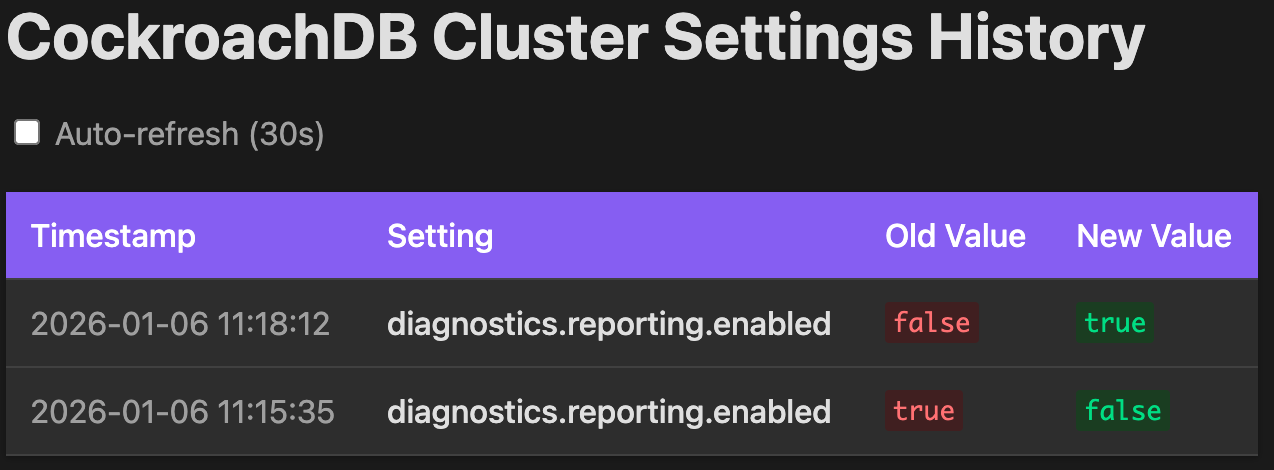
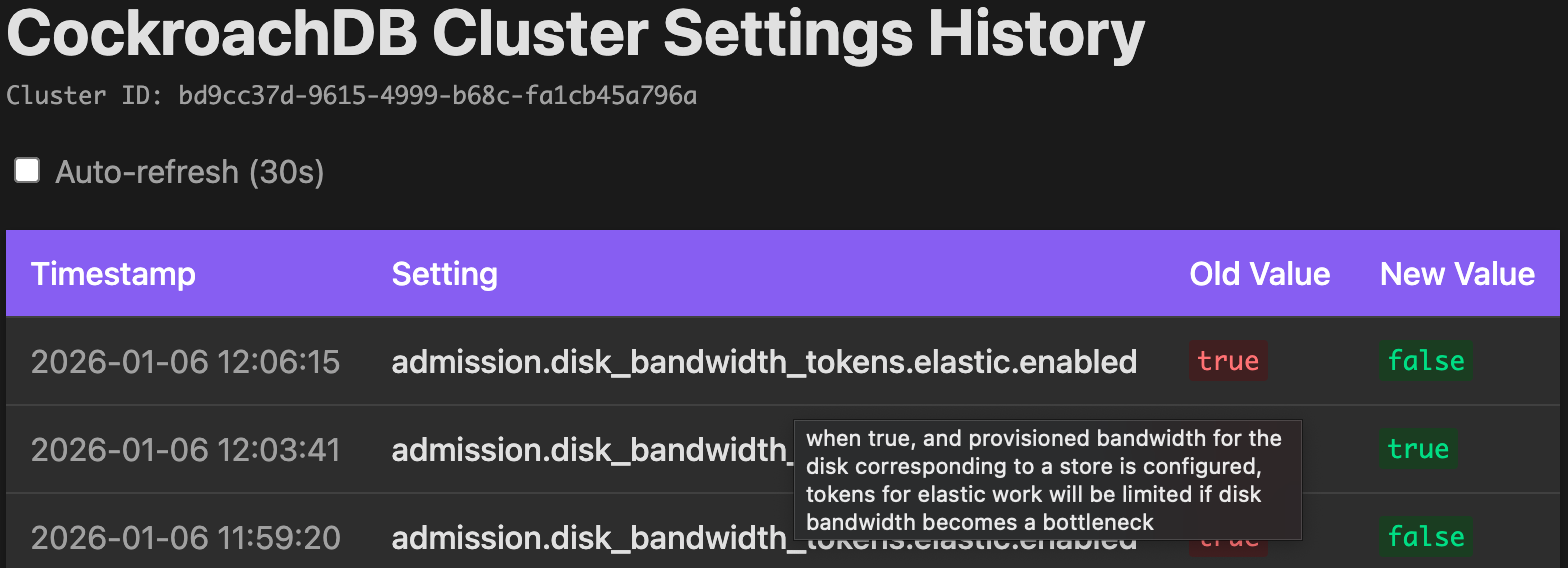
Add Docker support and display cluster ID in web UI
Docker:
- Add Dockerfile with multi-stage build (golang:1.21-alpine -> alpine:3.19)
- Add docker-compose.yml for local development with CockroachDB
- Add .dockerignore to exclude build artifacts
- Add Podman compatibility notes to README

Cluster ID display:
- Add metadata table to store cluster_id
- Collector fetches cluster_id via crdb_internal.cluster_id()
- Web UI displays cluster ID below title in small monospace font

🤖 Generated with [Claude Code](https://claude.com/claude-code)

diff --git a/web/templates/index.html b/web/templates/index.html
@@ -51,7 +51,13 @@
         }
         h1 {
             color: var(--text-primary);
+            margin-bottom: 5px;
+        }
+        .cluster-id {
+            font-size: 12px;
+            color: var(--text-secondary);
             margin-bottom: 20px;
+            font-family: 'Monaco', 'Menlo', monospace;
         }
         .container {
             max-width: 1200px;
@@ -127,6 +133,7 @@
 <body>
     <div class="container">
         <h1>CockroachDB Cluster Settings History</h1>
+        {{if .ClusterID}}<div class="cluster-id">Cluster ID: {{.ClusterID}}</div>{{end}}
 
         <div class="controls">
             <label>

diff --git a/storage/store.go b/storage/store.go
@@ -73,6 +73,12 @@ func initSchema(ctx context.Context, pool *pgxpool.Pool) error {
 	);
 
 	CREATE INDEX IF NOT EXISTS idx_changes_detected ON changes(detected_at DESC);
+
+	CREATE TABLE IF NOT EXISTS metadata (
+		key TEXT PRIMARY KEY,
+		value TEXT NOT NULL,
+		updated_at TIMESTAMPTZ NOT NULL
+	);
 	`
 	_, err := pool.Exec(ctx, schema)
 	if err != nil {
@@ -321,4 +327,37 @@ func (s *Store) CleanupOldChanges(ctx context.Context, retention time.Duration) 
 		return 0, err
 	}
 	return result.RowsAffected(), nil
+}
+
+// SetMetadata stores a key-value pair in the metadata table.
+func (s *Store) SetMetadata(ctx context.Context, key, value string) error {
+	_, err := s.pool.Exec(ctx,
+		`INSERT INTO metadata (key, value, updated_at) VALUES ($1, $2, NOW())
+		 ON CONFLICT (key) DO UPDATE SET value = $2, updated_at = NOW()`,
+		key, value,
+	)
+	return err
+}
+
+// GetMetadata retrieves a value from the metadata table.
+func (s *Store) GetMetadata(ctx context.Context, key string) (string, error) {
+	var value string
+	err := s.pool.QueryRow(ctx,
+		"SELECT value FROM metadata WHERE key = $1",
+		key,
+	).Scan(&value)
+	if err == pgx.ErrNoRows {
+		return "", nil
+	}
+	return value, err
+}
+
+// GetClusterID retrieves the stored cluster ID.
+func (s *Store) GetClusterID(ctx context.Context) (string, error) {
+	return s.GetMetadata(ctx, "cluster_id")
+}
+
+// SetClusterID stores the cluster ID.
+func (s *Store) SetClusterID(ctx context.Context, clusterID string) error {
+	return s.SetMetadata(ctx, "cluster_id", clusterID)
 }

diff --git a/collector/collector.go b/collector/collector.go
@@ -92,6 +92,11 @@ func (c *Collector) cleanup(ctx context.Context) error {
 func (c *Collector) collect(ctx context.Context) error {
 	log.Printf("Collecting cluster settings...")
 
+	// Fetch and store cluster ID (only updates if changed)
+	if err := c.updateClusterID(ctx); err != nil {
+		log.Printf("Warning: failed to update cluster ID: %v", err)
+	}
+
 	rows, err := c.pool.Query(ctx, "SHOW CLUSTER SETTINGS")
 	if err != nil {
 		return err
@@ -119,4 +124,13 @@ func (c *Collector) collect(ctx context.Context) error {
 
 	log.Printf("Collected %d settings", len(settings))
 	return nil
+}
+
+func (c *Collector) updateClusterID(ctx context.Context) error {
+	var clusterID string
+	err := c.pool.QueryRow(ctx, "SELECT crdb_internal.cluster_id()::TEXT").Scan(&clusterID)
+	if err != nil {
+		return err
+	}
+	return c.store.SetClusterID(ctx, clusterID)
 }

diff --git a/web/server.go b/web/server.go
@@ -48,17 +48,27 @@ func (s *Server) handleHealth(w http.ResponseWriter, r *http.Request) {
 }
 
 func (s *Server) handleIndex(w http.ResponseWriter, r *http.Request) {
-	changes, err := s.store.GetChanges(r.Context(), 100)
+	ctx := r.Context()
+
+	changes, err := s.store.GetChanges(ctx, 100)
 	if err != nil {
 		log.Printf("Error getting changes: %v", err)
 		http.Error(w, "Internal server error", http.StatusInternalServerError)
 		return
 	}
 
+	clusterID, err := s.store.GetClusterID(ctx)
+	if err != nil {
+		log.Printf("Error getting cluster ID: %v", err)
+		// Don't fail, just leave it empty
+	}
+
 	data := struct {
-		Changes []storage.Change
+		ClusterID string
+		Changes   []storage.Change
 	}{
-		Changes: changes,
+		ClusterID: clusterID,
+		Changes:   changes,
 	}
 
 	if err := s.tmpl.ExecuteTemplate(w, "index.html", data); err != nil {

diff --git a/README.md b/README.md
@@ -33,6 +33,56 @@ go build -o cluster-history .
 go build -ldflags "-X main.Version=1.0.0" -o cluster-history .
 ```
 
+## Docker
+
+### Quick Start with Docker Compose
+
+The easiest way to run the service locally:
+
+```bash
+docker-compose up -d
+```
+
+This starts:
+- CockroachDB single-node cluster
+- Initializes the history database
+- Runs the cluster-history service
+
+Open http://localhost:8080 to view the dashboard.
+
+### Build Docker Image
+
+```bash
+# Build image
+docker build -t cluster-history .
+
+# Build with version
+docker build --build-arg VERSION=1.0.0 -t cluster-history:1.0.0 .
+
+# Run container (connect to external CockroachDB)
+docker run -d \
+  -e DATABASE_URL="postgresql://root@host.docker.internal:26257/defaultdb?sslmode=disable" \
+  -e HISTORY_DATABASE_URL="postgresql://history_user@host.docker.internal:26257/cluster_history?sslmode=disable" \
+  -p 8080:8080 \
+  cluster-history
+
+# For Podman, use host.containers.internal instead of host.docker.internal
+```
+
+### Podman
+
+The Docker commands also work with Podman:
+
+```bash
+# Build
+podman build -t cluster-history .
+
+# Compose (requires podman-compose or Podman 4.1+)
+podman-compose up -d
+# or
+podman compose up -d
+```
+
 ## Quick Start
 
 ### 1. Initialize the history database

diff --git a/CLAUDE.md b/CLAUDE.md
@@ -63,6 +63,17 @@ The service monitors a CockroachDB cluster by periodically querying `SHOW CLUSTE
 
 ## Running Locally
 
+### With Docker Compose (easiest)
+
+```bash
+docker-compose up -d        # Start everything
+docker-compose logs -f      # View logs
+docker-compose down         # Stop
+docker-compose down -v      # Stop and remove data
+```
+
+### Without Docker
+
 ```bash
 # Initialize history database (one-time)
 DATABASE_URL="postgresql://root@localhost:26257/defaultdb?sslmode=disable" ./cluster-history init
